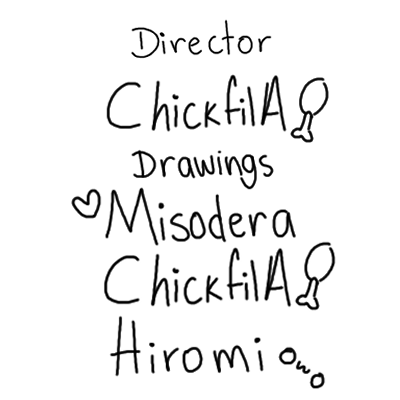
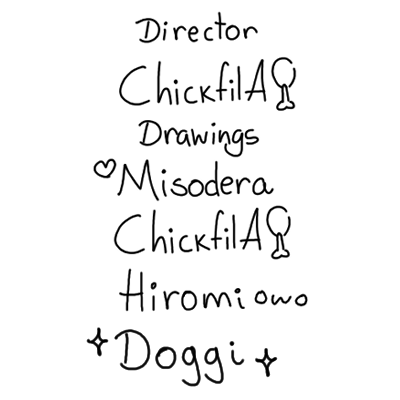
added doggi

Changed region(s): [[0.18, 0.03, 0.84, 0.99], [0.78, 0.6, 0.84, 0.69], [0.69, 0.12, 0.72, 0.15]]

diff --git a/source/game/loader.cpp b/source/game/loader.cpp
@@ -74,6 +74,16 @@ void contentLoader::loadSprites(engine::managers::assetsManager* manager)
         {"Miso Walking 02", "Miso/walking/2.png"},
         {"Miso Walking 03", "Miso/walking/3.png"},
 
+        // Doggi
+        {"Doggi Jumping 01", "Doggi/jump01.png"},
+        {"Doggi Jumping 02", "Doggi/jump02.png"},
+        {"Doggi Name 01", "Doggi/name01.png"},
+        {"Doggi Name 02", "Doggi/name02.png"},
+        {"Doggi Idle 01", "Doggi/idle01.png"},
+        {"Doggi Idle 02", "Doggi/idle02.png"},
+        {"Doggi Hit 01", "Doggi/hit01.png"},
+        {"Doggi Hit 02", "Doggi/hit02.png"},
+
         // Selection Screen
         {"Selection Arrow Off 01", "SelectionScreen/arrowOff01.png"},
         {"Selection Arrow Off 02", "SelectionScreen/arrowOff02.png"},
@@ -221,6 +231,27 @@ void contentLoader::loadAnimations(engine::managers::animationsManager* animatio
         { "Miso Walking 01", 500 },
         { "Miso Walking 02", 500 },
         { "Miso Walking 03", 500 },
+    });
+
+    // Doggi
+    animationsManagerPtr->requestAnimation("Doggi Hit", {
+        { "Doggi Jumping 01", 500 },
+    });
+    animationsManagerPtr->requestAnimation("Doggi Jumping", {
+        { "Doggi Jumping 01", 500 },
+        { "Doggi Jumping 02", 500 },
+    });
+    animationsManagerPtr->requestAnimation("Doggi Name", {
+        { "Doggi Name 01", 500 },
+        { "Doggi Name 02", 500 },
+    });
+    animationsManagerPtr->requestAnimation("Doggi Idle", {
+        { "Doggi Idle 01", 500 },
+        { "Doggi Idle 02", 500 },
+    });
+    animationsManagerPtr->requestAnimation("Doggi Attack", {
+        { "Doggi Hit 01", 500 },
+        { "Doggi Hit 02", 500 },
     });
 
     // UI

diff --git a/source/game/players/doggi.hpp b/source/game/players/doggi.hpp
@@ -1,0 +1,48 @@
+#pragma once
+
+#include "players/genericPlayer.hpp"
+
+namespace ksf
+{
+	namespace players
+	{
+		class doggi: public genericPlayer
+		{
+		public:
+			doggi(engine::managers::animationsManager* animationsManager) : genericPlayer("Doggi", animationsManager) {}
+
+			entities::player* createPlayer(const std::string& name) override
+			{
+				entities::player *player = new entities::player(
+					name,
+
+					animationsManager->getAnimation("Doggi Idle"),
+					animationsManager->getAnimation("Doggi Idle"),
+					animationsManager->getAnimation("Doggi Jumping"),
+					animationsManager->getAnimation("Doggi Hit"),
+					animationsManager->getAnimation("Doggi Idle"),
+					animationsManager->getAnimation("Doggi Attack")
+				);
+
+				player->setGravity(.02);
+				player->setHorizontalSpeed(.3);
+				player->setJumpSpeed(10.);
+
+				player->setSpritesSize(200,200);
+
+				return player;
+			}
+
+			graphics::animation* getIntroAnimation() override
+			{
+				graphics::animation* intro = animationsManager->getAnimation("Doggi Idle");
+				intro->setSpritesSize(450,450);
+				return intro;
+			}
+			graphics::animation* getNameAnimation()
+			{
+				return animationsManager->getAnimation("Doggi Name");
+			}
+		};
+	}
+}

diff --git a/source/game/gameSelection.cpp b/source/game/gameSelection.cpp
@@ -21,6 +21,8 @@ void gameSelection::initialize()
     players.push_back(player);
     nodesManager->registerNode(player = new players::uero(animationsManager));
     players.push_back(player);
+    nodesManager->registerNode(player = new players::doggi(animationsManager));
+    players.push_back(player);
 
     // Register backgrounds
     maps::genericBackground* background = nullptr;

diff --git a/source/game/views/gameSelection.hpp b/source/game/views/gameSelection.hpp
@@ -13,6 +13,7 @@
 #include "players/hammerGuy.hpp"
 #include "players/miso.hpp"
 #include "players/uero.hpp"
+#include "players/doggi.hpp"
 
 #include "maps/beach.hpp"
 
